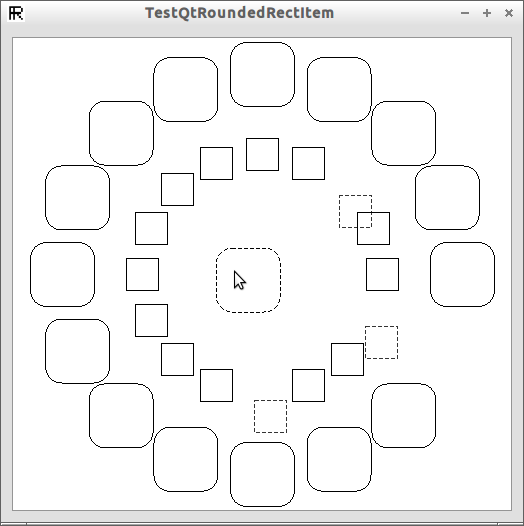
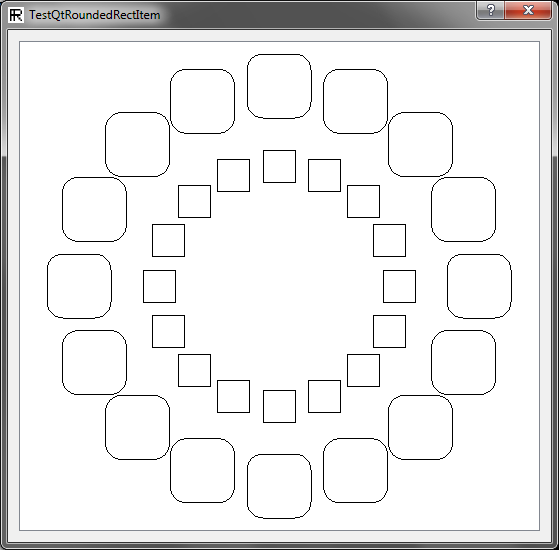
ToolTestQtRoundedRectItem v.1.2

diff --git a/Tools/ToolTestQtRoundedRectItem/qttestqtroundedrectitemwidget.cpp b/Tools/ToolTestQtRoundedRectItem/qttestqtroundedrectitemwidget.cpp
@@ -18,7 +18,7 @@
 #pragma GCC diagnostic pop
 
 ribi::QtTestQtRoundedRectItemWidget::QtTestQtRoundedRectItemWidget(QWidget *parent)
-  : QGraphicsView(new QGraphicsScene,parent)
+  : ribi::QtKeyboardFriendlyGraphicsView(parent)
 {
   const double pi = boost::math::constants::pi<double>();
   const int n_items = 16;
@@ -30,8 +30,10 @@ ribi::QtTestQtRoundedRectItemWidget::QtTestQtRoundedRectItemWidget(QWidget *pare
       const double x =  std::sin(angle) * ray;
       const double y = -std::cos(angle) * ray;
       QtRoundedRectItem * const item = new QtRoundedRectItem;
+      assert(item);
       item->setPos(x,y);
       item->SetRoundedRect(QRectF(-32.0,-32.0,64.0,64.0),16.0,16.0);
+      assert(scene());
       scene()->addItem(item);
     }
     {
@@ -39,13 +41,42 @@ ribi::QtTestQtRoundedRectItemWidget::QtTestQtRoundedRectItemWidget(QWidget *pare
       const double x =  std::sin(angle) * ray;
       const double y = -std::cos(angle) * ray;
       QGraphicsRectItem * const item = new QGraphicsRectItem;
+      assert(item);
       item->setFlags(
           QGraphicsItem::ItemIsFocusable
         | QGraphicsItem::ItemIsMovable
         | QGraphicsItem::ItemIsSelectable);
       item->setPos(x,y);
       item->setRect(-16.0,-16.0,32.0,32.0);
+      assert(scene());
       scene()->addItem(item);
     }
   }
+  //Add texts
+  {
+    const std::vector<std::string> v
+      =
+      {
+        "Goal: compare my custom class to the Qt class",
+        "Outer ring: my custom QtRoundedRectItem",
+        "Inner ring: Qt its QGraphicsRectItem (note that these do not indicate being selected)",
+        "Space: set focus to random item",
+        "Arrow keys: move focus",
+        "Shift + arrow keys: move item"
+        //"F2: edit item"
+      };
+    const int sz = boost::numeric_cast<int>(v.size());
+    for (int i=0; i!=sz; ++i)
+    {
+      QGraphicsSimpleTextItem * const item = new QGraphicsSimpleTextItem(v[i].c_str());
+      const double w = item->boundingRect().width();
+      const double h = item->boundingRect().height();
+      const double x = -300.0;
+      const double y = -300.0 + (static_cast<double>(i - (sz/2)) * 20.0);
+      item->setPos((-0.5 * w) + x,(-0.5 * h) + y);
+      assert(!item->scene());
+      scene()->addItem(item);
+    }
+  }
+
 }

diff --git a/Classes/CppQtConceptMap/qtitemdisplaystrategy.cpp b/Classes/CppQtConceptMap/qtitemdisplaystrategy.cpp
@@ -56,7 +56,8 @@ ribi::cmap::QtItemDisplayStrategy::QtItemDisplayStrategy(
     m_contour_pen(QPen(QColor(0,0,0))),
     m_focus_pen(QPen(QColor(0,0,0))),
     m_indicator_brush(QBrush(QColor(0,0,0,0))),
-    m_indicator_pen(QPen(QColor(0,0,0)))
+    m_indicator_pen(QPen(QColor(0,0,0))),
+    m_main_brush(QBrush(QColor(0,0,0,0)))
 {
   #ifndef NDEBUG
   Test();
@@ -95,10 +96,12 @@ boost::shared_ptr<const ribi::cmap::Concept> ribi::cmap::QtItemDisplayStrategy::
 }
 */
 
+/*
 std::string ribi::cmap::QtItemDisplayStrategy::GetName() const noexcept
 {
   return Unwordwrap(this->GetText());
 }
+*/
 
 /*
 void ribi::cmap::QtItemDisplayStrategy::hoverStartEvent(QGraphicsSceneHoverEvent *)
@@ -107,7 +110,7 @@ void ribi::cmap::QtItemDisplayStrategy::hoverStartEvent(QGraphicsSceneHoverEvent
   this->setCursor(QCursor(Qt::PointingHandCursor));
 }
 */
-
+/*
 void ribi::cmap::QtItemDisplayStrategy::hoverMoveEvent(QGraphicsSceneHoverEvent *)
 {
   this->setCursor(QCursor(Qt::PointingHandCursor));
@@ -159,13 +162,13 @@ void ribi::cmap::QtItemDisplayStrategy::paint(QPainter* painter, const QStyleOpt
       );
   }
 }
-
+*/
 void ribi::cmap::QtItemDisplayStrategy::SetIndicatorBrush(const QBrush& brush)
 {
   if (m_indicator_brush != brush)
   {
     m_indicator_brush = brush;
-    this->update();
+    //this->update();
   }
 }
 
@@ -174,21 +177,22 @@ void ribi::cmap::QtItemDisplayStrategy::SetIndicatorPen(const QPen& pen)
   if (m_indicator_pen != pen)
   {
     m_indicator_pen = pen;
-    this->update();
+    //this->update();
   }
 }
 
 void ribi::cmap::QtItemDisplayStrategy::SetMainBrush(const QBrush& any_brush)
 {
-
-  if (this->brush() != any_brush)
+  if (m_main_brush != any_brush)
   {
-    this->setBrush(any_brush);
-    this->update();
+    m_main_brush = any_brush;
+    //this->setBrush(any_brush);
+    //this->update();
   }
-  assert(this->brush() == any_brush);
+  //assert(this->brush() == any_brush);
 }
 
+/*
 void ribi::cmap::QtItemDisplayStrategy::SetPos(const double x, const double y)
 {
   if (x != this->x() || y != this->y())
@@ -212,6 +216,7 @@ void ribi::cmap::QtItemDisplayStrategy::SetName(const std::string& s)
   #endif
   assert(this->GetName() == s);
 }
+*/
 
 /*
 QPainterPath ribi::cmap::QtItemDisplayStrategy::shape() const

diff --git a/Classes/CppQtConceptMap/qtconceptmapqtnodedialog.h b/Classes/CppQtConceptMap/qtconceptmapqtnodedialog.h
@@ -13,27 +13,27 @@
 
 
 namespace Ui {
-  class QtConceptMapQtNodeDialog;
+  class QtQtNodeDialog;
 }
 
 namespace ribi {
 namespace cmap {
 
-class QtConceptMapQtNodeDialog : public ::ribi::QtHideAndShowDialog
+class QtQtNodeDialog : public ::ribi::QtHideAndShowDialog
 {
   Q_OBJECT
 
 public:
-  explicit QtConceptMapQtNodeDialog(QWidget *parent = 0);
-  QtConceptMapQtNodeDialog(const QtConceptMapQtNodeDialog&) = delete;
-  QtConceptMapQtNodeDialog& operator=(const QtConceptMapQtNodeDialog&) = delete;
-  ~QtConceptMapQtNodeDialog();
+  explicit QtQtNodeDialog(QWidget *parent = 0);
+  QtQtNodeDialog(const QtQtNodeDialog&) = delete;
+  QtQtNodeDialog& operator=(const QtQtNodeDialog&) = delete;
+  ~QtQtNodeDialog();
 
   void SetQtNode(const boost::shared_ptr<QtNode>& qtnode);
   boost::shared_ptr<QtNode> GetQtNode() const noexcept { return m_qtnode; }
 
 private:
-  Ui::QtConceptMapQtNodeDialog *ui;
+  Ui::QtQtNodeDialog *ui;
 
   ///The QtNode to work on
   boost::shared_ptr<QtNode> m_qtnode;

diff --git a/Tools/ToolTestQtRoundedRectItem/testqtroundedrectitemmenudialog.cpp b/Tools/ToolTestQtRoundedRectItem/testqtroundedrectitemmenudialog.cpp
@@ -27,7 +27,7 @@ ribi::About ribi::TestQtRoundedRectItemMenuDialog::GetAbout() const noexcept
     "Richel Bilderbeek",
     "TestQtRoundedRectItem",
     "tests QtRoundedRectItemt",
-    "the 20th of May 2013",
+    "the 10th of June 2014",
     "2012-2014",
     "http://www.richelbilderbeek.nl/ToolTestQtRoundedRectItem.htm",
     GetVersion(),
@@ -70,7 +70,8 @@ std::vector<std::string> ribi::TestQtRoundedRectItemMenuDialog::GetVersionHistor
   return {
     "2012-12-21: version 1.0: initial version",
     "2012-05-20: version 1.1: added menu",
-    "2013-11-05: version 1.2: conformized for ProjectRichelBilderbeekConsole"
+    "2013-11-05: version 1.2: conformized for ProjectRichelBilderbeekConsole",
+    "2014-06-10: version 1.3: use QtKeyboardFriendlyGraphicView in desktop version"
   };
 }
 

diff --git a/Tools/ToolTestQtRoundedRectItem/qttestqtroundedrectitemwidget.h b/Tools/ToolTestQtRoundedRectItem/qttestqtroundedrectitemwidget.h
@@ -5,13 +5,13 @@
 #pragma GCC diagnostic ignored "-Weffc++"
 #pragma GCC diagnostic ignored "-Wunused-local-typedefs"
 #pragma GCC diagnostic ignored "-Wunused-but-set-parameter"
-#include <QGraphicsView>
+#include "qtkeyboardfriendlygraphicsview.h"
 #pragma GCC diagnostic pop
 
 namespace ribi {
 
 ///The widget holding the items
-struct QtTestQtRoundedRectItemWidget : public QGraphicsView
+struct QtTestQtRoundedRectItemWidget : public ribi::QtKeyboardFriendlyGraphicsView
 {
   QtTestQtRoundedRectItemWidget(QWidget *parent = 0);
 };

diff --git a/Tools/ToolTestQtRoundedEditRectItem/qttestqtroundededitrectitemmenudialog.h b/Tools/ToolTestQtRoundedEditRectItem/qttestqtroundededitrectitemmenudialog.h
@@ -21,7 +21,12 @@ along with this program.If not, see <http://www.gnu.org/licenses/>.
 #ifndef QTTESTQTROUNDEDEDITRECTITEMMENUDIALOG_H
 #define QTTESTQTROUNDEDEDITRECTITEMMENUDIALOG_H
 
+#pragma GCC diagnostic push
+#pragma GCC diagnostic ignored "-Weffc++"
+#pragma GCC diagnostic ignored "-Wunused-local-typedefs"
+#pragma GCC diagnostic ignored "-Wunused-but-set-parameter"
 #include "qthideandshowdialog.h"
+#pragma GCC diagnostic pop
 
 namespace Ui {
   class QtTestQtRoundedEditRectItemMenuDialog;

diff --git a/Tools/ToolTestQtRoundedEditRectItem/qttestqtroundededitrectitemmenudialog.cpp b/Tools/ToolTestQtRoundedEditRectItem/qttestqtroundededitrectitemmenudialog.cpp
@@ -20,6 +20,8 @@ along with this program.If not, see <http://www.gnu.org/licenses/>.
 //---------------------------------------------------------------------------
 #pragma GCC diagnostic push
 #pragma GCC diagnostic ignored "-Weffc++"
+#pragma GCC diagnostic ignored "-Wunused-local-typedefs"
+#pragma GCC diagnostic ignored "-Wunused-but-set-parameter"
 #include "qttestqtroundededitrectitemmenudialog.h"
 
 #include <QDesktopWidget>

diff --git a/Tools/ToolTestQtRoundedRectItem/qtmain.cpp b/Tools/ToolTestQtRoundedRectItem/qtmain.cpp
@@ -1,7 +1,7 @@
 //---------------------------------------------------------------------------
 /*
 TestQtRoundedRectItem, tool to test QtRoundedRectItem
-Copyright (C) 2012-2013  Richel Bilderbeek
+Copyright (C) 2012-2014  Richel Bilderbeek
 
 This program is free software: you can redistribute it and/or modify
 it under the terms of the GNU General Public License as published by

diff --git a/Classes/CppQtConceptMap/qtconceptmapelement.h b/Classes/CppQtConceptMap/qtconceptmapelement.h
@@ -77,6 +77,8 @@ struct QtConceptMapElement : public QtRoundedEditRectItem //NEW 2013-09-15
   void setPos(qreal x, qreal y) { QtRoundedEditRectItem::setPos(x,y); }
 
   void hoverMoveEvent(QGraphicsSceneHoverEvent *) final;
+  void hoverStartEvent(QGraphicsSceneHoverEvent *);
+
 
   private:
   virtual void SetNode(const boost::shared_ptr<Node>& node) = 0;

diff --git a/Classes/CppQtConceptMap/qtconceptmapnode.h b/Classes/CppQtConceptMap/qtconceptmapnode.h
@@ -86,7 +86,6 @@ protected:
 
   void focusInEvent(QFocusEvent *event) final;
   void focusOutEvent(QFocusEvent *event) final;
-  void hoverStartEvent(QGraphicsSceneHoverEvent *);
   void keyPressEvent(QKeyEvent *event) final;
 
   //const boost::shared_ptr<QtConceptMapItem>& GetConceptItem() { return m_concept_item; }

diff --git a/Tools/ToolTestQtRoundedEditRectItem/qtmain.cpp b/Tools/ToolTestQtRoundedEditRectItem/qtmain.cpp
@@ -1,5 +1,7 @@
 #pragma GCC diagnostic push
 #pragma GCC diagnostic ignored "-Weffc++"
+#pragma GCC diagnostic ignored "-Wunused-local-typedefs"
+#pragma GCC diagnostic ignored "-Wunused-but-set-parameter"
 #include <QApplication>
 #include <QDesktopWidget>
 #include "qttestqtroundededitrectitemmenudialog.h"

diff --git a/Classes/CppQtConceptMap/qtconceptmapelement.cpp b/Classes/CppQtConceptMap/qtconceptmapelement.cpp
@@ -46,3 +46,8 @@ void ribi::cmap::QtConceptMapElement::hoverMoveEvent(QGraphicsSceneHoverEvent *)
 {
   this->setCursor(QCursor(Qt::PointingHandCursor));
 }
+
+void ribi::cmap::QtConceptMapElement::hoverStartEvent(QGraphicsSceneHoverEvent *)
+{
+  this->setCursor(QCursor(Qt::PointingHandCursor));
+}
